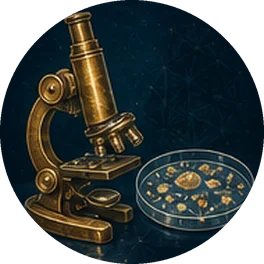
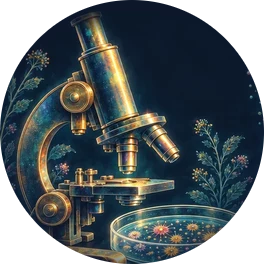
Een kijkje vooruit: rondjes uit de richtingplaten, ondertitels, zelfde maat als Eerste ontdekkingen
Claude-Session: https://claude.ai/code/session_015KyPFiEZcRjv9ydD3MHc1x

diff --git a/index.html b/index.html
@@ -198,6 +198,12 @@ li a:hover .tk.foto::after,li a:focus-visible .tk.foto::after{opacity:1;transiti
 .vlak li + li{border-top:1px solid var(--line)}
 .vlak-later li a{display:flex;align-items:center;gap:14px;padding:9px 24px}
 .vlak-later li a svg{margin-left:auto;color:var(--text3)}
+/* Een kijkje vooruit (Kamiel 23 okt 2026): rondjes = uitsnede van de richtingplaat op vervolg.html, zelfde maat en opbouw als Eerste ontdekkingen */
+.vlak-later li a .tk.foto{width:76px;height:76px}
+.vlak-later li a{padding-top:12px;padding-bottom:12px}
+.vlak-later li .vtekst{display:flex;flex-direction:column;gap:2px;min-width:0}
+.vlak-later li .vtekst .sub{color:var(--text3);font-size:14px}
+@media (max-width:600px){.vlak-later li a .tk.foto{width:64px;height:64px}}
 .vlak-onder li .tk.foto,.vlak-later li .tk.foto{width:56px;height:56px;padding:0;overflow:hidden;border:1px solid color-mix(in srgb,var(--goud) 55%,transparent);background:#0F1726}
 .vlak-onder li:has(.tk.foto) a{grid-template-columns:56px minmax(0,1fr) auto!important}
 /* Eerste ontdekkingen (Kamiel 23 okt 2026): rondjes = uitsnede van de kerndoelplaat, iets groter, met de kerndoelcode zoals op de kaarten */
@@ -2848,7 +2854,7 @@ const VERDERKUNST={gedrag:`<path d="M60 22c-10-8-28-4-30 10-12 2-18 16-10 26-6 1
  <circle cx="96" cy="96" r="5" class="acc" fill="currentColor" stroke="none"/>`,onderwijs:`<path d="M60 34C48 26 30 24 16 26v64c14-2 32 0 44 8 12-8 30-10 44-8V26c-14-2-32 0-44 8z" stroke-width="1.7" stroke-linejoin="round"/>
  <path d="M60 34v64" stroke-width="1.4"/><path d="M26 40c8-1 18 0 26 4M26 52c8-1 18 0 26 4M68 44c8-4 18-5 26-4M68 56c8-4 18-5 26-4" stroke-width="1" opacity=".6"/>
  <path d="M74 66c4 6 4 12 0 18 6 0 10 4 10 8" class="acc" stroke="currentColor" stroke-width="1.5"/>`};
-const VERDER=[['gedrag','Gedrag en hersenen','paars'],['zorg','Zorg en geneeskunde','koraal'],['lab','Lab en onderzoek','teal'],['voeding','Voeding en gezondheid','oker'],['groen','Groen en ecologie','groen'],['onderwijs','Onderwijs','goud']];
+const VERDER=[['gedrag','Gedrag en hersenen','paars','Denken, voelen, opgroeien'],['zorg','Zorg en geneeskunde','koraal','Mens en dier behandelen'],['lab','Lab en onderzoek','teal','Uitzoeken hoe leven werkt'],['voeding','Voeding en gezondheid','oker','Eten, bewegen, preventie'],['groen','Groen en ecologie','groen','Natuur, land en milieu'],['onderwijs','Onderwijs','goud','Biologie uitleggen']];
 /* Kunstzinnige achtergrond op de hoofdpagina: grote, ijle lijntekeningen (geen korrel) */
 /* Kunstzinnige achtergrond: vier eigen bio-art-platen, procedureel getekend (geen korrel).
    Standen (knop naast licht/donker, localStorage 'kunst'): rustig · intens · uit */
@@ -2979,7 +2985,7 @@ function home(){
     </article>
     <article class="vlak vlak-later" id="vlak-later">
       <header><span class="mono vlak-lbl">Wat word jij? · studie en beroep</span><h2>Een kijkje vooruit</h2><p>Welke opleidingen en beroepen draaien om biologie, en wat doe je daar echt?</p></header>
-      <ul>${VERDER.map(([id,naam,k])=>`<li><a href="vervolg.html#${id}">${HICOON.includes('v-'+id)?`<span class="tk foto"><img src="img/kunst/iconen/home/v-${id}.webp?v=1" alt="" width="56" height="56" decoding="async"></span>`:`<span class="tk"><svg class="kunst" viewBox="0 0 120 120" fill="none" stroke="currentColor" stroke-linecap="round" stroke-linejoin="round" aria-hidden="true" style="--c:var(--${k})">${VERDERKUNST[id]||''}</svg></span>`}<b>${esc(naam)}</b>${pijl}</a></li>`).join('')}</ul>
+      <ul>${VERDER.map(([id,naam,k,sub])=>`<li><a href="vervolg.html#${id}">${HICOON.includes('v-'+id)?`<span class="tk foto"><img src="img/kunst/iconen/home/v-${id}.webp?v=2" alt="" width="76" height="76" decoding="async"></span>`:`<span class="tk"><svg class="kunst" viewBox="0 0 120 120" fill="none" stroke="currentColor" stroke-linecap="round" stroke-linejoin="round" aria-hidden="true" style="--c:var(--${k})">${VERDERKUNST[id]||''}</svg></span>`}<span class="vtekst"><b>${esc(naam)}</b>${sub?`<span class="sub">${esc(sub)}</span>`:''}</span>${pijl}</a></li>`).join('')}</ul>
       <a class="vlak-naar" href="vervolg.html">Alle richtingen ${pijl}</a>
     </article>
   </section>`;

diff --git a/CLAUDE.md b/CLAUDE.md
@@ -140,3 +140,5 @@ PTA Agora (`pta()`: de vier figuren rechtsboven en de rondjes per onderdeel) en 
 `films/benchmark/` (niet gelinkt, noindex) is één vaste scène van 21 s: Noor neemt een hap van een broodje kaas, röntgenblik met organen op hun echte plek, de hap reist naar de dunne darm, doorlopende zoom tot in de darmwand, een enzym knipt zetmeel in glucose. Draaiboek in `bron/scene.js`, de varianten in `bron/render.js` (nu = nulmeting, licht, principes, rijk, techniek = WebGL-volumeshader), bouwen met `python3 films/benchmark/bouw.py` (plakt lib.js en lib_voeding.js uit Voeding film 1, lib_cast.js, lib_anatomie.js en lib_bio.js erin). Elke grote animatiemutatie wordt eerst hier gemaakt en naast de nulmeting gezet (claude.ai-artifact 'Benchmarkscène', https://claude.ai/artifact/5iSMnAFCWNFkaSdTjNY8pj); een winnende aanpak gaat daarna in Part C van de prompt en in de gedeelde bibliotheken.
 
 Rondjes 'Eerste ontdekkingen' op de hoofdpagina (Kamiel 23 okt 2026: moeten lijken op de kerndoelkaarten en passen bij de themarondjes): `img/kunst/iconen/home/ob-<kd>.webp` zijn nu ronde uitsneden (264 px, RGBA, zachte navy-vignet) van de kerndoelplaten `img/kunst/onderbouw/<kd>.webp`: 32A loep met plantencel, 32B eend met kuikens, 32C fietsend meisje met mand, 33C reiger met kikker (geen vos meer: leek te veel op de wolf van Ecologie). De oude rondjes staan in `img/kunst/varianten/onderbouw/ob-<kd>-oud.webp`. Rij toont 'Kerndoel <code>' (mono, goud) boven de titel; de titel komt uit `NIVEAUS.onderbouw` (zelfde naam als de kaart, via `kdNaam()`), de ondertitel uit `OB`. Rondje 76 px (telefoon 64), tussen de 56 px van 'Een kijkje vooruit' en de 88 px van de themarondjes. Nieuwe kerndoelplaat (bv. 32D) → ook het rondje opnieuw uitsnijden.
+
+Rondjes 'Een kijkje vooruit' op de hoofdpagina (Kamiel 23 okt 2026: 'ook een beetje uit stijl'): zelfde aanpak als Eerste ontdekkingen. `img/kunst/iconen/home/v-<richting>.webp` = ronde uitsnede van de richtingplaat `img/kunst/vervolg/<richting>.webp` (gedrag brein met neuronenwortels, zorg handen die de pols voelen, lab microscoop met petrischaal, voeding schaal met groente en fruit (de hardloper viel in een rond niet goed), groen eik met reiger, onderwijs schrift met kiemplant); oude rondjes in `img/kunst/varianten/home/v-<richting>-oud.webp`. Rondje 76 px (telefoon 64), ondertitel = vierde veld in `VERDER` (zelfde tekst als `sub` in `CLUSTERS` van vervolg.html; houd ze gelijk). Uitsnijden kan voor beide rijen met een cirkel + zachte navy-vignet (r > 0,72, sterkte 0,55) op 264 px.
